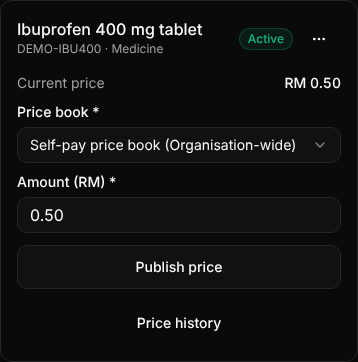
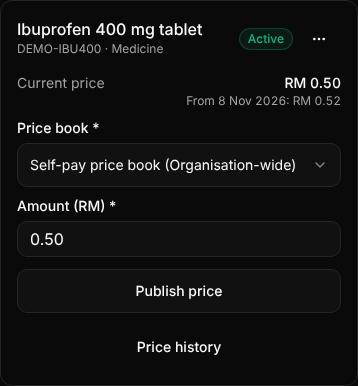
CAT-6 (WIP): Daniel's conditions (two-line trigger grows from 36/44 px, top-aligned cells, scheduled price line)
Claude-Session: https://claude.ai/code/session_01MHFmnVyVJEum6VMCHbKqEk

diff --git a/resources/js/pages/Pricing/Index.vue b/resources/js/pages/Pricing/Index.vue
@@ -31,6 +31,7 @@ type ChargeRow = {
         amountSen: number;
         version: number;
     } | null;
+    scheduledPrice?: { amountSen: number; effectiveAt: string } | null;
 };
 type PriceBookRow = {
     publicId: string;
@@ -194,6 +195,23 @@ const priceText = (charge: ChargeRow) =>
     charge.currentPrice
         ? `RM ${(charge.currentPrice.amountSen / 100).toFixed(2)}`
         : '—';
+
+// CAT-6 (Daniel): a price scheduled for later shows as a muted second line under "Current price".
+const scheduledText = (charge: ChargeRow) => {
+    const next = charge.scheduledPrice;
+
+    if (!next) {
+        return null;
+    }
+
+    const date = new Date(next.effectiveAt).toLocaleDateString('en-GB', {
+        day: 'numeric',
+        month: 'short',
+        year: 'numeric',
+    });
+
+    return `From ${date}: RM ${(next.amountSen / 100).toFixed(2)}`;
+};
 
 const toggleCharge = (charge: ChargeRow) => {
     router.post(
@@ -415,11 +433,17 @@ const toggleCharge = (charge: ChargeRow) => {
                         </DropdownMenu>
                     </div>
                 </div>
-                <div class="flex items-center justify-between gap-3 text-sm">
+                <div class="flex items-start justify-between gap-3 text-sm">
                     <span class="text-muted-foreground">Current price</span>
-                    <span class="font-medium tabular-nums">{{
-                        priceText(charge)
-                    }}</span>
+                    <span class="text-right font-medium tabular-nums"
+                        >{{ priceText(charge) }}
+                        <span
+                            v-if="scheduledText(charge)"
+                            class="block text-xs font-normal text-muted-foreground"
+                            data-testid="scheduled-price"
+                            >{{ scheduledText(charge) }}</span
+                        ></span
+                    >
                 </div>
                 <div v-if="canPublish" class="grid gap-3">
                     <div class="grid gap-2">
@@ -431,7 +455,7 @@ const toggleCharge = (charge: ChargeRow) => {
                             v-model="publishForm(charge).priceBook"
                             :label="`Price book for ${charge.displayName}`"
                             :options="bookOptions()"
-                            trigger-class="h-auto min-h-9 py-1.5 text-left whitespace-normal *:data-[slot=select-value]:line-clamp-2 *:data-[slot=select-value]:[overflow-wrap:anywhere]"
+                            trigger-class="h-auto min-h-11 py-1.5 data-[size=default]:h-auto text-left whitespace-normal md:min-h-9 *:data-[slot=select-value]:line-clamp-2 *:data-[slot=select-value]:[overflow-wrap:anywhere]"
                             :content-avoid-collisions="false"
                         />
                     </div>
@@ -495,6 +519,7 @@ const toggleCharge = (charge: ChargeRow) => {
         <div class="hidden min-w-0 md:block">
             <OperationalTable
                 label="Charge definitions"
+                class="[&_td]:align-top"
                 :columns="canPublish ? 5 : 4"
                 :empty="charges.length === 0"
                 empty-message="No charge definitions yet. Create one above to start pricing."
@@ -521,6 +546,12 @@ const toggleCharge = (charge: ChargeRow) => {
                         <td>{{ typeLabel(charge.type) }}</td>
                         <td class="text-right whitespace-nowrap tabular-nums">
                             {{ priceText(charge) }}
+                            <span
+                                v-if="scheduledText(charge)"
+                                class="block text-xs text-muted-foreground"
+                                data-testid="scheduled-price"
+                                >{{ scheduledText(charge) }}</span
+                            >
                         </td>
                         <td v-if="canPublish">
                             <div class="flex flex-wrap items-end gap-2">
@@ -535,7 +566,7 @@ const toggleCharge = (charge: ChargeRow) => {
                                         v-model="publishForm(charge).priceBook"
                                         :label="`Price book for ${charge.displayName}`"
                                         :options="bookOptions()"
-                                        trigger-class="h-auto min-h-9 py-1.5 text-left whitespace-normal *:data-[slot=select-value]:line-clamp-2 *:data-[slot=select-value]:[overflow-wrap:anywhere]"
+                                        trigger-class="h-auto min-h-11 py-1.5 data-[size=default]:h-auto text-left whitespace-normal md:min-h-9 *:data-[slot=select-value]:line-clamp-2 *:data-[slot=select-value]:[overflow-wrap:anywhere]"
                                         :content-avoid-collisions="false"
                                     />
                                 </div>

diff --git a/app/Http/Controllers/PricingController.php b/app/Http/Controllers/PricingController.php
@@ -52,10 +52,21 @@ class PricingController extends Controller
                     ?? $forCharge->first();
                 $newestInBook = (int) $forCharge->where('price_book_id', $inEffect->price_book_id)->max('version');
 
+                // The next version in that book that takes effect later, if any (shown as a muted line).
+                $scheduled = $forCharge
+                    ->where('price_book_id', $inEffect->price_book_id)
+                    ->filter(fn (PriceEntry $entry): bool => CarbonImmutable::parse((string) $entry->getRawOriginal('effective_at'), 'UTC')->greaterThan($now))
+                    ->sortBy('version')
+                    ->first();
+
                 return (object) [
                     'price_book_id' => $inEffect->price_book_id,
                     'unit_price_sen' => $inEffect->unit_price_sen,
                     'version' => $newestInBook,
+                    'scheduled' => $scheduled === null ? null : [
+                        'amountSen' => (int) $scheduled->unit_price_sen,
+                        'effectiveAt' => CarbonImmutable::parse((string) $scheduled->getRawOriginal('effective_at'), 'UTC')->toIso8601String(),
+                    ],
                 ];
             });
 
@@ -109,6 +120,7 @@ class PricingController extends Controller
                         'amountSen' => $latest->unit_price_sen,
                         'version' => $latest->version,
                     ] : null,
+                    'scheduledPrice' => $latest?->scheduled,
                 ];
             })->values(),
         ]);

diff --git a/tests/Feature/Billing/PricingCurrentPriceTest.php b/tests/Feature/Billing/PricingCurrentPriceTest.php
@@ -78,6 +78,9 @@ class PricingCurrentPriceTest extends ClinicalTestCase
         $this->assertSame(600, $row['currentPrice']['amountSen']);
         $this->assertSame(3, $row['currentPrice']['version']);
         $this->assertSame($book->public_id, $row['currentPrice']['priceBookPublicId']);
+        // Daniel: the scheduled version shows as a second line.
+        $this->assertSame(900, $row['scheduledPrice']['amountSen']);
+        $this->assertSame(now()->utc()->addDay()->toDateString(), substr($row['scheduledPrice']['effectiveAt'], 0, 10));
     }
 
     public function test_with_every_version_in_effect_nothing_changes_and_publishing_with_that_version_still_works(): void
@@ -89,6 +92,7 @@ class PricingCurrentPriceTest extends ClinicalTestCase
 
         $row = $this->row('CUR-2');
         $this->assertSame([750, 2], [$row['currentPrice']['amountSen'], $row['currentPrice']['version']]);
+        $this->assertNull($row['scheduledPrice']);
 
         app(PricePublicationService::class)->publish($this->supervisor, $book, $charge, 800, $row['currentPrice']['version'], $this->branch->id);
         $this->assertSame(800, $this->row('CUR-2')['currentPrice']['amountSen']);
